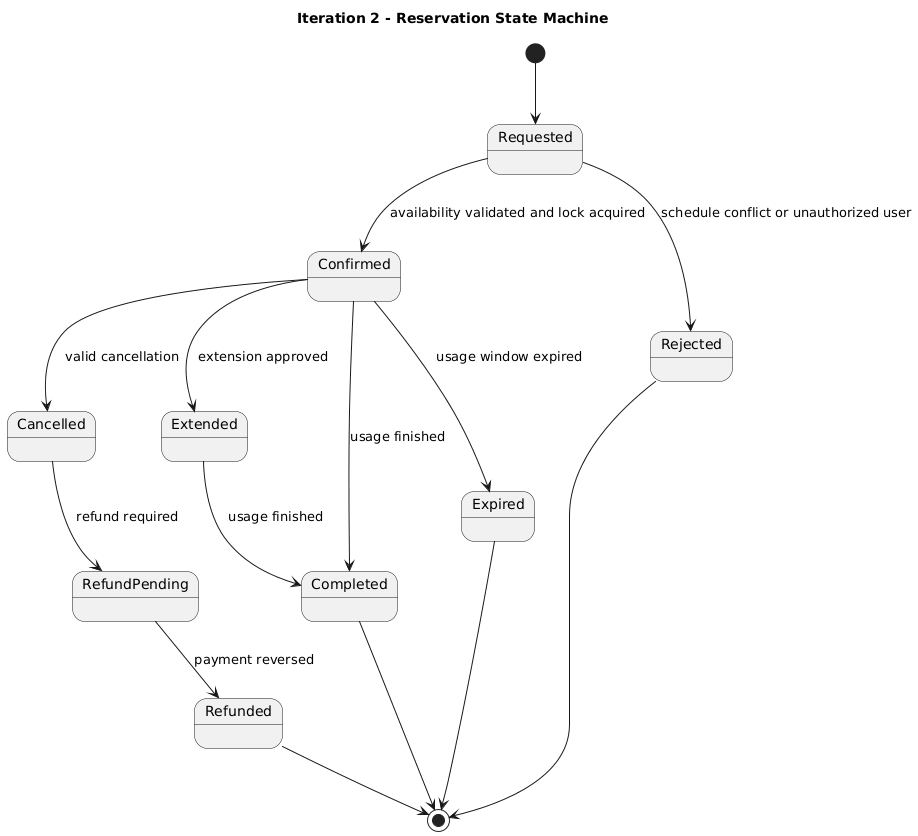
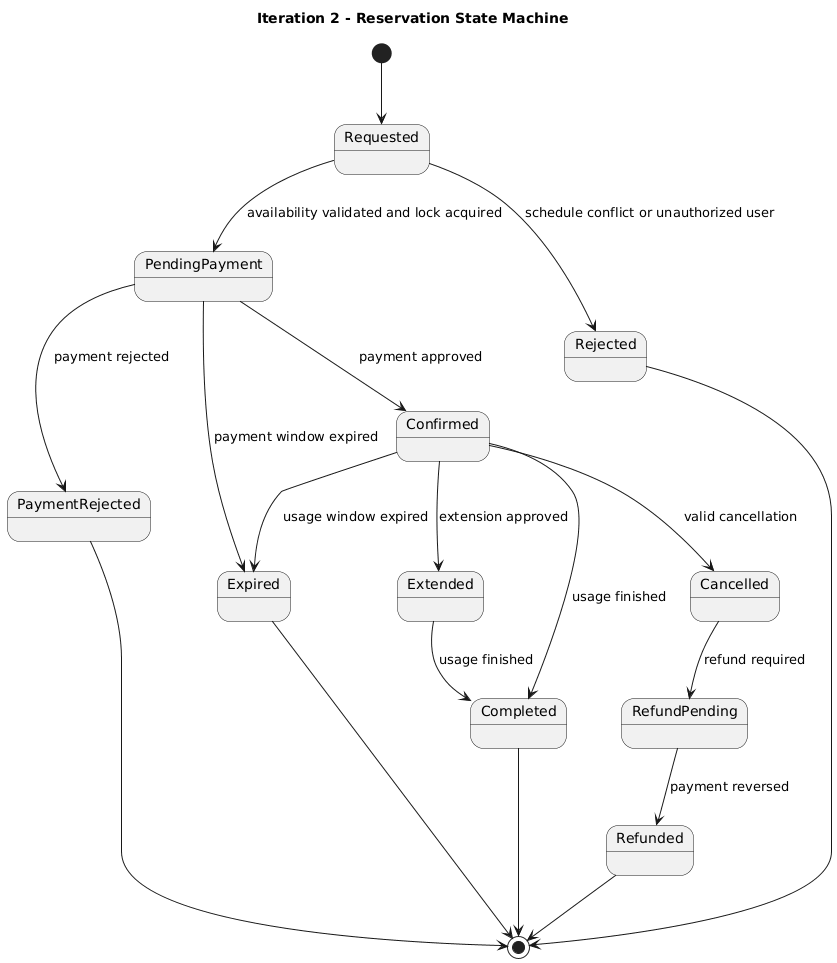
docs: Align ADD iteration 2 views

diff --git a/README.md b/README.md
@@ -1350,6 +1350,8 @@ _Pendiente de completar._
 
 ### 4.3.2. Iteration 2: Address Critical Quality Attributes
 
+Esta iteración refina la estructura general definida en Iteration 1 para atacar los riesgos arquitectónicos más sensibles del MVP: disponibilidad visible, prevención de doble reserva, seguridad de acceso y preparación del flujo de pago asociado a una reserva. El foco sigue estando dentro del núcleo transaccional de ParkLink; las integraciones externas completas se dejan para Iteration 3.
+
 #### 4.3.2.1. Architectural Design Backlog
 
 Esta iteración toma como entrada los drivers críticos que no pueden quedar como decisiones superficiales, porque afectan directamente la confianza operativa del producto. ParkLink no sólo debe mostrar estacionamientos; debe garantizar que la disponibilidad visible sea confiable, que una reserva no se duplique, que el acceso esté protegido por roles y que la búsqueda responda rápido mientras el usuario está en movimiento.
@@ -1365,6 +1367,7 @@ Drivers que entran a la iteración:
 | User Story | US08 | Extender tiempo de reserva activa | Backlog arquitectónico |
 | User Story | US10 | Configurar horarios y precio del espacio | Backlog arquitectónico |
 | User Story | US11 | Habilitar y deshabilitar un espacio | Backlog arquitectónico |
+| User Story | US14 | Pagar una reserva en línea | Backlog arquitectónico parcial |
 | Quality Attribute | QAS-01 | 95% de búsquedas respondidas en 3 segundos o menos | Backlog arquitectónico |
 | Quality Attribute | QAS-02 | Confirmación de reserva en 5 segundos o menos y 0 dobles reservas | Backlog arquitectónico |
 | Quality Attribute | QAS-03 | Disponibilidad mensual objetivo de 99.5% | Backlog arquitectónico |
@@ -1387,11 +1390,12 @@ El backlog se prioriza con base en riesgo arquitectónico. La doble reserva y la
 3. No existan dobles reservas para el mismo espacio y rango horario.
 4. Los cambios de horario, cancelación, extensión o deshabilitación de un espacio actualicen la disponibilidad visible.
 5. Las operaciones críticas estén protegidas por autenticación JWT, autorización por rol y validaciones de ownership.
-6. El diseño mantenga bajo acoplamiento entre búsqueda, reserva, publicación e identidad.
+6. El ciclo de reserva quede preparado para el pago mediante un estado `PendingPayment`, sin acoplar todavía el dominio al proveedor externo.
+7. El diseño mantenga bajo acoplamiento entre búsqueda, reserva, publicación, identidad y monetización.
 
 **Drivers primarios seleccionados:** US02, US05, QAS-02, C-03, AC-01, AC-02.
 
-**Drivers secundarios:** US01, US06, US08, US10, US11, QAS-01, QAS-03, QAS-04, AC-03, AC-05.
+**Drivers secundarios:** US01, US06, US08, US10, US11, US14, QAS-01, QAS-03, QAS-04, AC-03, AC-05.
 
 La iteración no intenta resolver todavía el detalle avanzado de proveedores externos, webhooks de pago, signed URLs de media o resiliencia contra terceros. Esos elementos quedan para Iteration 3. Acá se define el núcleo interno que hace posible confiar en el estado de una reserva.
 
@@ -1404,6 +1408,7 @@ Elementos seleccionados para refinamiento:
 | `Reservation Management Service` | Es el Core Domain y debe controlar creación, cancelación, extensión, estados y bloqueo de espacios. | US05, US06, US08, QAS-02, C-03, AC-02 |
 | `Parking Discovery Service` | Debe responder búsquedas rápidas usando disponibilidad visible y filtros sin modificar el estado real de reservas. | US01, US02, QAS-01, AC-03 |
 | `Parking Supply & Monetization Service` | Define horarios, precios, habilitación y deshabilitación de espacios que afectan la disponibilidad base. | US10, US11, AC-01 |
+| `Payment Authorization Boundary` | Representa el punto de integración interno entre una reserva retenida y el flujo de pago, sin definir todavía provider, webhook o reembolso. | US14, C-06 |
 | `User & Identity Service` | Debe autenticar usuarios, emitir tokens y separar permisos de conductor y propietario. | QAS-04, AC-05, C-06 |
 | `Availability Cache` | Debe acelerar lecturas frecuentes de disponibilidad sin reemplazar a la base de datos relacional. | US02, QAS-01, QAS-03 |
 | `Main Relational Database` | Debe garantizar consistencia fuerte en reservas mediante transacciones, locks e índices. | QAS-02, C-03, AC-02 |
@@ -1421,6 +1426,7 @@ El refinamiento mantiene el enfoque de backend modular. No se separan microservi
 | US02, QAS-01 | **CQRS ligero** para separar lectura de disponibilidad visible y escritura transaccional de reservas | La búsqueda puede ser optimizada sin comprometer la consistencia del comando de reserva. |
 | US02, QAS-03 | **Cache-Aside + Event-Driven Cache Invalidation** | Redis acelera consultas, pero se invalida mediante eventos de dominio después de cambios relevantes. |
 | US06, US08, US11 | **Domain Events** (`ReservationConfirmed`, `ReservationCancelled`, `ReservationExtended`, `SpaceAvailabilityChanged`) | Propagan cambios de estado sin acoplar directamente Discovery, Reservation y Supply. |
+| US14, C-06 | **Payment Authorization Boundary** + estado `PendingPayment` | La reserva puede retener disponibilidad mientras espera pago, sin implementar todavía webhooks ni adapters externos. |
 | QAS-04, AC-05 | **JWT Authentication + Role-Based Access Control** | Separa acciones de conductor, propietario y administrador. |
 | QAS-04 | **Ownership Authorization Checks** | Un propietario sólo modifica sus espacios y un conductor sólo gestiona sus reservas. |
 | QAS-01 | **Database Indexing Strategy** sobre ubicación, estado, precio, horario y fechas de reserva | Reduce tiempos de respuesta en búsquedas y validaciones de solapamiento. |
@@ -1440,6 +1446,7 @@ La decisión clave es separar disponibilidad visible de disponibilidad confirmab
 | `AvailabilityRepository` | Bloquear filas de disponibilidad base y actualizar estado transaccional. | `lockSlot(spaceId, start, end)`, `markReserved(...)`, `markReleased(...)` |
 | `ParkingDiscoveryService` | Resolver búsquedas, filtros y detalle usando proyección de disponibilidad visible. | `GET /parking-spaces/search`, `GET /parking-spaces/{id}` |
 | `AvailabilityProjectionUpdater` | Consumir eventos de dominio y actualizar Redis. | Subscriber de `ReservationConfirmed`, `ReservationCancelled`, `ReservationExtended`, `SpaceAvailabilityChanged` |
+| `PaymentAuthorizationPort` | Exponer un contrato interno para solicitar autorización de pago antes de confirmar definitivamente una reserva. | `authorize(reservationId, amount, driverId)`, `markPaymentApproved(reservationId)`, `markPaymentRejected(reservationId)` |
 | `AvailabilityCache` | Mantener claves de disponibilidad visible por espacio, zona y rango horario. | `availability:{spaceId}:{date}`, `search:{geoHash}:{date}:{hour}` |
 | `IdentityService` | Emitir JWT y proveer datos de rol/perfil. | `POST /auth/login`, `POST /auth/register`, `GET /me` |
 | `AuthorizationMiddleware` | Validar token, rol y ownership antes de ejecutar operaciones críticas. | Middleware en API Gateway / Backend API |
@@ -1451,6 +1458,7 @@ Modelo de datos refinado:
 | `RESERVATIONS` | `reservation_id`, `driver_id`, `space_id`, `start_datetime`, `end_datetime`, `status`, `version`, `created_at` | Estados controlados por `ReservationService`; índice por `space_id`, `start_datetime`, `end_datetime`, `status`. |
 | `AVAILABILITY` | `availability_id`, `space_id`, `day_of_week`, `start_time`, `end_time`, `status`, `version` | Fuente de disponibilidad base configurada por propietario. |
 | `AVAILABILITY_LOCKS` | `lock_id`, `space_id`, `start_datetime`, `end_datetime`, `reservation_id`, `expires_at` | Soporte para bloqueo temporal o confirmación transaccional del espacio. |
+| `PAYMENT_AUTHORIZATIONS` | `authorization_id`, `reservation_id`, `amount`, `status`, `requested_at`, `expires_at` | Registro mínimo para enlazar reserva y pago; provider, webhook e idempotencia se refinan en Iteration 3. |
 | `USERS` | `user_id`, `email`, `password_hash`, `role`, `status` | Separación explícita de roles `DRIVER`, `OWNER` y `ADMIN`. |
 
 Interfaces de eventos:
@@ -1458,13 +1466,14 @@ Interfaces de eventos:
 | Evento | Productor | Consumidores | Payload mínimo |
 |---|---|---|---|
 | `ReservationConfirmed` | `ReservationService` | `AvailabilityProjectionUpdater`, `NotificationService` | `reservationId`, `spaceId`, `driverId`, `start`, `end`, `occurredAt` |
+| `ReservationPaymentRequested` | `ReservationService` | `PaymentAuthorizationPort`, `ParkingSupplyService` | `reservationId`, `driverId`, `amount`, `expiresAt`, `occurredAt` |
 | `ReservationCancelled` | `ReservationService` | `AvailabilityProjectionUpdater`, `ParkingSupplyService` | `reservationId`, `spaceId`, `reason`, `occurredAt` |
 | `ReservationExtended` | `ReservationService` | `AvailabilityProjectionUpdater`, `ParkingSupplyService` | `reservationId`, `previousEnd`, `newEnd`, `occurredAt` |
 | `SpaceAvailabilityChanged` | `ParkingSupplyService` | `AvailabilityProjectionUpdater`, `ParkingDiscoveryService` | `spaceId`, `status`, `effectiveFrom`, `occurredAt` |
 
 #### 4.3.2.6. Sketch Views (C4 & UML) and Record Design Decisions
 
-Las vistas de esta iteración refinan el Container Diagram y agregan vistas UML para explicar el comportamiento crítico de reserva. Las imágenes fueron generadas a partir de modelos C4/Structurizr y PlantUML para evitar que el informe muestre código de diagramas como artefacto final.
+Las vistas de esta iteración mantienen el mismo nivel de detalle usado en Iteration 3: una vista C4 de containers, dos vistas dinámicas para flujos críticos, una vista de componentes y una vista UML de clases/estado. Las imágenes fueron generadas a partir de modelos C4/Structurizr y PlantUML para evitar que el informe muestre código de diagramas como artefacto final.
 
 ##### 4.3.2.6.1. Container View — Critical Quality Attributes Refinement
 
@@ -1472,15 +1481,31 @@ Esta vista muestra cómo `Reservation Management Service`, `Parking Discovery Se
 
 ![Iteration 2 Container View](assets/iter2/ContainersIter2.png)
 
-##### 4.3.2.6.2. UML Sequence Diagram — Reserva con control de concurrencia
+##### 4.3.2.6.2. Dynamic View — Reserva con control de concurrencia y retención de pago
 
-El flujo muestra que la confirmación de reserva se realiza dentro de una transacción. La cache se actualiza después del commit; por lo tanto, nunca decide por sí sola si una reserva queda confirmada.
+Modela el flujo principal de una reserva: validación de JWT, bloqueo transaccional de disponibilidad, creación del estado `PendingPayment`, registro de autorización de pago y publicación del evento interno. La cache se actualiza después del commit; por lo tanto, nunca decide por sí sola si una reserva queda confirmada.
 
 ![Reservation Concurrency Flow](assets/iter2/ReservationConcurrencyFlow.png)
 
-##### 4.3.2.6.3. UML State Machine — Ciclo de vida de reserva
+##### 4.3.2.6.3. Dynamic View — Actualización de disponibilidad visible
 
-La máquina de estados evita transiciones ambiguas. Una reserva no puede pasar directamente de `Requested` a `Completed`; primero debe ser confirmada, cancelada, extendida o rechazada según reglas explícitas.
+Modela cómo los cambios de reserva o disponibilidad se propagan mediante eventos internos hacia la proyección de lectura usada por `Parking Discovery Service`. Esta vista justifica la separación entre disponibilidad visible y disponibilidad confirmable.
+
+![Availability Projection Flow](assets/iter2/AvailabilityProjectionFlow.png)
+
+##### 4.3.2.6.4. Component View — Reservation Management Context
+
+Vista los componentes internos de `Reservation Management Service`, mostrando cómo se separan el controlador, la política de disponibilidad, los repositorios transaccionales, el puerto de autorización de pago y el publicador de eventos de dominio.
+
+![Reservation Management Components](assets/iter2/ReservationComponents.png)
+
+##### 4.3.2.6.5. Class Diagram — Reservation and Availability Rules
+
+Vista de clases del modelo de reserva y disponibilidad. Explicita los estados `PendingPayment`, `Confirmed`, `Cancelled`, `Extended` y los objetos que participan en la validación de solapamientos y autorización de pago.
+
+![Reservation Domain Model](assets/iter2/ReservationDomainModel.png)
+
+La máquina de estados complementa el diagrama de clases y evita transiciones ambiguas. Una reserva no puede pasar directamente de `Requested` a `Completed`; primero debe ser retenida para pago, confirmada, cancelada, extendida, expirada o rechazada según reglas explícitas.
 
 ![Reservation State Machine](assets/iter2/ReservationStateMachine.png)
 
@@ -1495,6 +1520,7 @@ La máquina de estados evita transiciones ambiguas. Una reserva no puede pasar d
 | ADR-205 | Cambios de reserva y disponibilidad publican eventos de dominio internos. | Accepted | US06, US08, US11 | Desacopla actualización de búsqueda, notificaciones y vistas de propietario. |
 | ADR-206 | El API Gateway valida JWT y cada servicio aplica checks de ownership. | Accepted | QAS-04, AC-05 | Evita que usuarios operen reservas o espacios ajenos. |
 | ADR-207 | Las búsquedas se optimizan con índices por ubicación, estado, precio y rangos horarios. | Accepted | QAS-01, AC-03 | Reduce latencia de búsqueda para usuarios móviles. |
+| ADR-208 | La reserva incorpora estado `PendingPayment` y contrato `PaymentAuthorizationPort`, pero deja webhooks, idempotencia y providers para Iteration 3. | Accepted | US14, C-06 | Permite afirmar que pago queda parcialmente atendido sin sobrediseñar la integración externa. |
 
 #### 4.3.2.7. Analysis of Current Design and Review Iteration Goal (Kanban Board)
 
@@ -1507,6 +1533,7 @@ La máquina de estados evita transiciones ambiguas. Una reserva no puede pasar d
 | US08 Extender reserva | Backlog | **Addressed** | Validación de disponibilidad futura y transición de estado `Extended`. |
 | US10 Configurar horarios/precio | Backlog | **Partially addressed** | `ParkingSupplyService` actualiza disponibilidad base; monetización profunda queda en Iteration 3. |
 | US11 Habilitar/deshabilitar espacio | Backlog | **Addressed** | Evento `SpaceAvailabilityChanged` actualiza proyección de búsqueda. |
+| US14 Pago en línea | Backlog | **Partially addressed** | Estado `PendingPayment` + `PaymentAuthorizationPort`; webhooks e idempotencia quedan en Iteration 3. |
 | QAS-01 Performance búsqueda | Backlog | **Addressed** | CQRS ligero, Redis e índices de consulta. |
 | QAS-02 Consistencia reserva | Backlog | **Addressed** | ADR-201, ADR-202 y ADR-203. |
 | QAS-03 Disponibilidad plataforma | Backlog | **Partially addressed** | Graceful degradation de cache; resiliencia ante terceros queda en Iteration 3. |
@@ -1522,8 +1549,8 @@ La máquina de estados evita transiciones ambiguas. Una reserva no puede pasar d
 | To Do | In Progress | Done |
 |---|---|---|
 | Resiliencia avanzada ante proveedores externos | Observabilidad completa con métricas y dashboards | Diseño de transacción de reserva |
-| Política detallada de reembolso y comprobantes | Pruebas de carga reales con datos productivos | Diseño de disponibilidad visible con Redis |
-| Tolerancia a fallos de pasarela de pagos | Ajuste fino de TTL e invalidación de cache | RBAC, JWT y ownership checks |
+| Política detallada de reembolso, comprobantes y webhooks | Pruebas de carga reales con datos productivos | Diseño de disponibilidad visible con Redis |
+| Tolerancia a fallos de pasarela de pagos | Ajuste fino de TTL e invalidación de cache | RBAC, JWT, ownership checks y `PendingPayment` |
 | Disaster recovery y backup operativo | Evaluación futura de partición por zona geográfica | Eventos internos de disponibilidad y reserva |
 
 **Iteration goal:** alcanzado para los drivers primarios. El diseño reduce los riesgos más graves del MVP: disponibilidad falsa, doble reserva y acceso no autorizado. Los pendientes no invalidan la iteración; quedan correctamente derivados hacia Iteration 3 o hacia validación empírica posterior mediante pruebas de carga y monitoreo operativo.